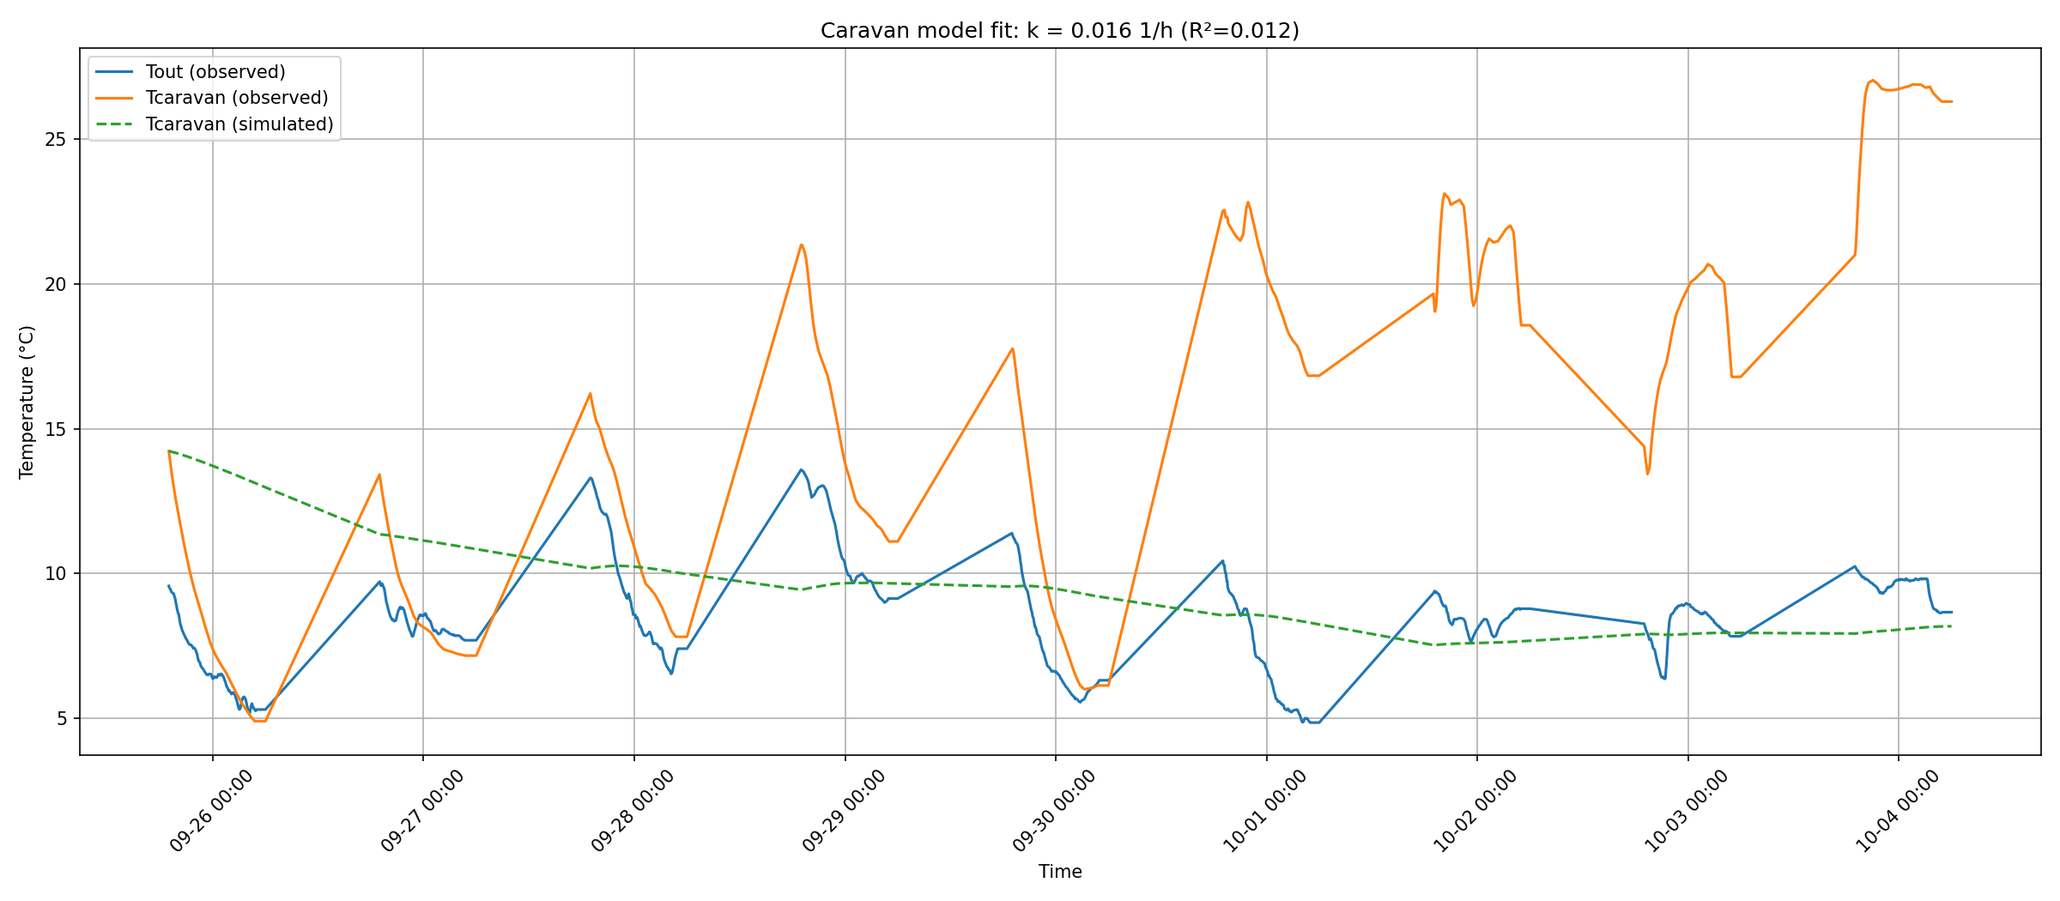
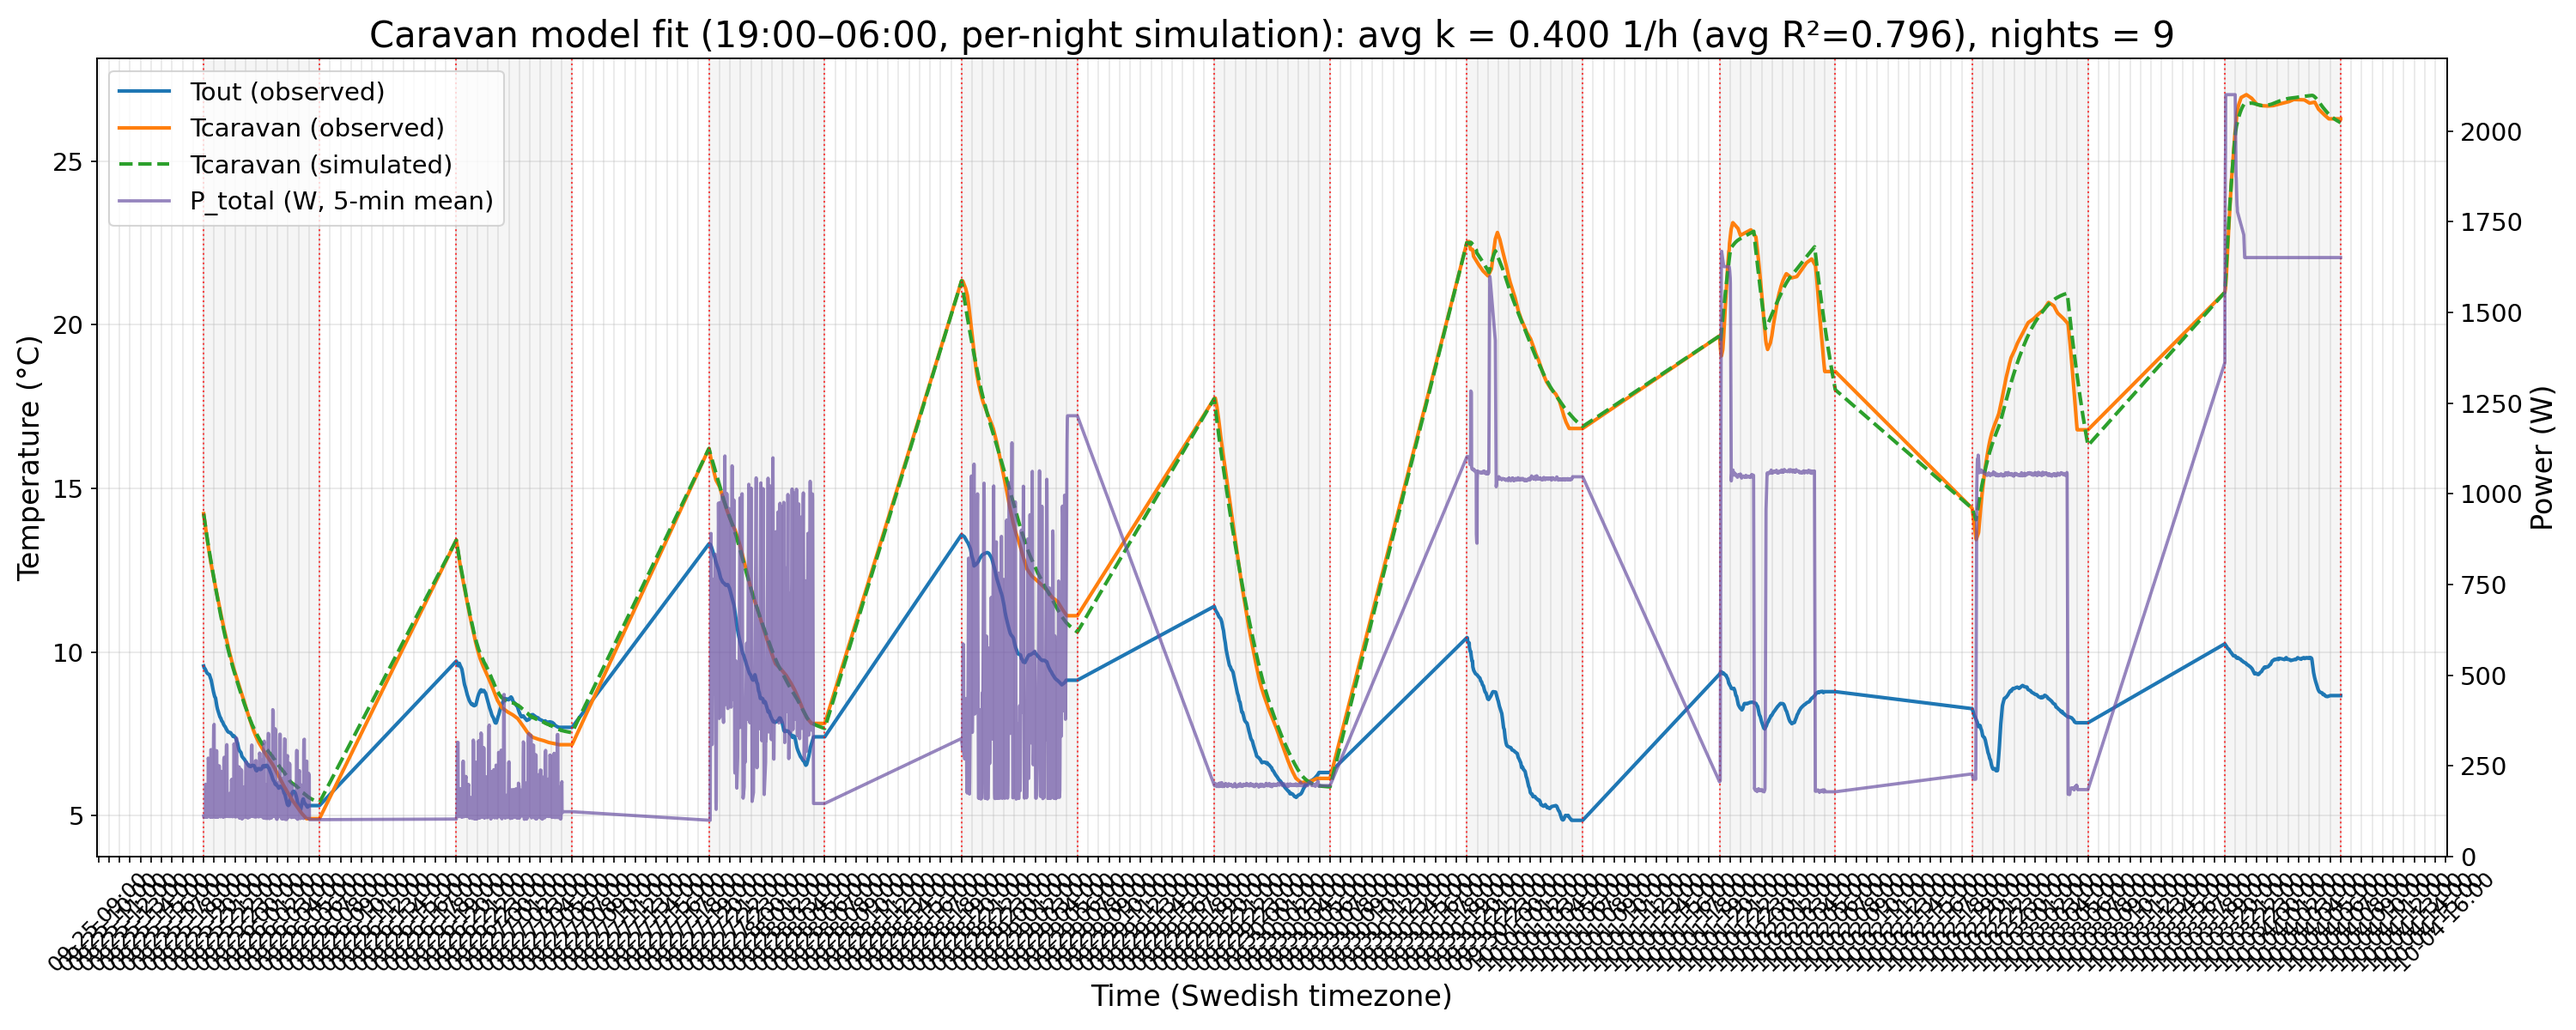
caravan fit

diff --git a/caravan/estimate_caravan_heat_exchange.py b/caravan/estimate_caravan_heat_exchange.py
@@ -17,13 +17,14 @@ import matplotlib.pyplot as plt
 import matplotlib.dates as mdates
 
 
-def fit_k(df, tout_col, tcaravan_col):
+def fit_k_alpha(df, tout_col: str, tcaravan_col: str, ptotal_col: str):
     """
-    Estimate k in the model dTcaravan/dt = k * (Tout - Tcaravan)
+    Estimate parameters in the model:
+        dT/dt = k * (Tout - Tcaravan) + alpha * P_total
 
-    Contract:
-    - Input df indexed by datetime, minutely or similar, with columns tout_col and tcaravan_col (floats)
-    - Output dict with k (1/s), k_per_hour (1/h), r2, stderr, n_samples
+    Where P_total = heater_power + human_heat (assumed constant 100W already added).
+
+    Returns dict with k, alpha, capacity (=1/alpha), statistics, and samples used.
     """
     df = df.copy()
 
@@ -35,45 +36,62 @@ def fit_k(df, tout_col, tcaravan_col):
     dT = np.asarray(df[tcaravan_col].astype(float).diff().values, dtype=float)
     dT_dt = dT / dt_seconds
 
-    # Driving temperature difference as numpy
-    x = np.asarray((df[tout_col].astype(float) - df[tcaravan_col].astype(float)).values, dtype=float)
+    # Predictors
+    x1 = np.asarray((df[tout_col].astype(float) - df[tcaravan_col].astype(float)).values, dtype=float)
+    x2 = np.asarray(df[ptotal_col].astype(float).values, dtype=float)
 
     # Build DataFrame aligned to original index for filtering and drop NaNs from edges
-    data = pd.DataFrame({'x': x, 'y': dT_dt, 'dt': dt_seconds}, index=df.index).dropna()
+    data = pd.DataFrame({'x1': x1, 'x2': x2, 'y': dT_dt, 'dt': dt_seconds}, index=df.index).dropna()
 
     # Keep only reasonably uniform sampling (30s..120s) to avoid edge artifacts
+    # This is critical when combining multiple time periods with gaps
+    data_before_filter = len(data)
     data = data[(data['dt'] >= 30) & (data['dt'] <= 120)]
+    data_after_filter = len(data)
+    
+    print(f"Filtering: kept {data_after_filter}/{data_before_filter} samples ({data_before_filter - data_after_filter} boundary samples excluded)")
 
     if len(data) < 10:
         raise ValueError(f"Not enough samples after cleaning to fit k (have {len(data)})")
 
-    x_vals = np.asarray(data['x'].values, dtype=float)
+    X = np.column_stack([
+        np.asarray(data['x1'].values, dtype=float),
+        np.asarray(data['x2'].values, dtype=float)
+    ])
     y_vals = np.asarray(data['y'].values, dtype=float)
 
-    # Fit through origin: minimize ||y - k x||^2 -> k = (x·y)/(x·x)
-    denom = np.dot(x_vals, x_vals)
-    if denom == 0:
-        raise ValueError("Zero variance in (Tout - Tcaravan); cannot estimate k")
-    k = float(np.dot(x_vals, y_vals) / denom)
+    # Solve least squares without intercept
+    coeffs, residuals_arr, rank, s = np.linalg.lstsq(X, y_vals, rcond=None)
+    k = float(coeffs[0])
+    alpha = float(coeffs[1])
 
     # Residuals and statistics
-    y_hat = k * x_vals
+    y_hat = X @ coeffs
     residuals = y_vals - y_hat
     n = len(y_vals)
-    # Degrees of freedom: 1 parameter (slope through origin)
-    dof = max(n - 1, 1)
+    p = X.shape[1]
+    # Degrees of freedom: p parameters (k, alpha), no intercept
+    dof = max(n - p, 1)
     sse = float(np.dot(residuals, residuals))
     sigma2 = sse / dof
-    stderr = float(np.sqrt(sigma2 / denom))
-    # R^2 for no-intercept model: 1 - SSE / sum(y^2)
+    # Standard errors for coefficients
+    XtX_inv = np.linalg.pinv(X.T @ X)
+    se = np.sqrt(np.diag(sigma2 * XtX_inv))
+    stderr_k = float(se[0])
+    stderr_alpha = float(se[1])
+
+    # R^2 for no-intercept model: 1 - SSE / sum(y^2) (no intercept definition)
     tss0 = float(np.dot(y_vals, y_vals))
     r2 = float(1.0 - sse / tss0) if tss0 > 0 else float('nan')
 
     return {
         'k_per_second': k,
         'k_per_hour': k * 3600.0,
-        'stderr_per_second': stderr,
-        'stderr_per_hour': stderr * 3600.0,
+        'alpha_per_watt': alpha,  # (deg C / (W*s))
+        'capacity_J_per_degC': (1.0 / alpha) if alpha != 0 else float('inf'),
+        'stderr_k_per_second': stderr_k,
+        'stderr_k_per_hour': stderr_k * 3600.0,
+        'stderr_alpha_per_watt': stderr_alpha,
         'r2_no_intercept': r2,
         'n_samples': n,
     }
@@ -118,47 +136,92 @@ def main():
     # Sensors
     tout = 'sensor.climate_outdoor_temperature'
     tcaravan = 'sensor.climate_b_kontor_temperature'
+    pheater = 'sensor.plug_office_power'
 
     # Generate multiple time periods from 2025-09-25 to 2025-10-03
     # Each period: 19:00 Swedish time to 06:00 next day Swedish time
     periods = generate_time_periods('2025-09-25', '2025-10-03')
     
     print(f"Loading data for {len(periods)} periods...")
-    
-    # Load and combine data from all periods
-    all_dataframes = []
+
+    # Fit and simulate per-night; also build combined df for plotting
+    night_results: List[Dict[str, Any]] = []
+    per_night_frames: List[pd.DataFrame] = []
+
     for i, (start_utc, end_utc) in enumerate(periods):
         print(f"  Period {i+1}: {start_utc.isoformat()} to {end_utc.isoformat()} (UTC)")
         start_ts = start_utc.timestamp()
         end_ts = end_utc.timestamp()
-        
-        # Load minutely-interpolated data for this period
-        df_period = load_data([tout, tcaravan], from_time=start_ts, to_time=end_ts)
-        
-        if not df_period.empty:
-            all_dataframes.append(df_period)
-        else:
+
+        # Load data for this night
+        df_period = load_data([tout, tcaravan, pheater], from_time=start_ts, to_time=end_ts)
+        if df_period.empty:
             print(f"    Warning: No data found for period {i+1}")
-    
-    if not all_dataframes:
+            continue
+
+        # Compute total power (cap heater) + 100W humans
+        heater_w = df_period[pheater].astype(float).fillna(0.0).clip(lower=0.0, upper=2000.0)
+        df_period['P_total'] = heater_w + 100.0
+        try:
+            df_period['P_total_smooth'] = df_period['P_total'].rolling('5min', min_periods=1).mean()
+        except Exception:
+            df_period['P_total_smooth'] = df_period['P_total'].rolling(5, min_periods=1).mean()
+
+        # Fit per-night
+        res = fit_k_alpha(df_period, tout_col=tout, tcaravan_col=tcaravan, ptotal_col='P_total')
+
+        # Simulate per-night with reset initial condition
+        idx = df_period.index
+        dt_sec = idx.to_series().diff().dt.total_seconds().fillna(0.0).astype(float).to_numpy()
+        tout_vals = df_period[tout].astype(float).to_numpy()
+        t_obs_vals = df_period[tcaravan].astype(float).to_numpy()
+        p_total_vals = df_period['P_total'].astype(float).to_numpy()
+        t_sim = np.empty_like(t_obs_vals)
+        t_sim[0] = t_obs_vals[0]
+        k_val = res['k_per_second']
+        alpha_val = res['alpha_per_watt']
+        for j in range(1, len(t_sim)):
+            t_sim[j] = (
+                t_sim[j-1]
+                + (k_val * (tout_vals[j-1] - t_sim[j-1]) + alpha_val * p_total_vals[j-1]) * dt_sec[j]
+            )
+        df_period['T_sim'] = t_sim
+
+        # Record results
+        night_results.append({
+            'night_index': i + 1,
+            'start_utc': start_utc.isoformat(),
+            'end_utc': end_utc.isoformat(),
+            'start_swedish': start_utc.astimezone(ZoneInfo('Europe/Stockholm')).isoformat(),
+            'end_swedish': end_utc.astimezone(ZoneInfo('Europe/Stockholm')).isoformat(),
+            **res,
+        })
+
+        per_night_frames.append(df_period)
+
+    if not per_night_frames:
         raise ValueError("No data found for any of the specified periods")
-    
-    # Combine all periods into one DataFrame
-    df = pd.concat(all_dataframes, axis=0).sort_index()
+
+    # Combine all nights for plotting/inspection
+    df = pd.concat(per_night_frames, axis=0).sort_index()
     print(f"Combined data: {len(df)} samples from {df.index[0]} to {df.index[-1]}")
 
-    # Fit k on all combined data
-    results = fit_k(df, tout_col=tout, tcaravan_col=tcaravan)
+    # Verify slicing by checking hours
+    hours = [t.hour for t in df.index]
+    print(f"Hours present in data: {sorted(set(hours))}")
+    print(f"Expected hours: 19, 20, 21, 22, 23, 0, 1, 2, 3, 4, 5, 6")
 
-    # Print results
-    print('=== Caravan heat exchange estimate ===')
-    print(f"Time periods: {len(periods)} periods from 2025-09-25 to 2025-10-03")
-    print(f"Each period: 19:00 to 06:00 next day (Swedish time)")
-    print(f"Combined data: {len(df)} samples from {df.index[0]} to {df.index[-1]}")
-    print(f"Samples used for fitting: {results['n_samples']}")
-    print(f"k = {results['k_per_second']:.6e} 1/s  (± {results['stderr_per_second']:.2e})")
-    print(f"k = {results['k_per_hour']:.6e} 1/h  (± {results['stderr_per_hour']:.2e})")
-    print(f"R^2 (no intercept): {results['r2_no_intercept']:.4f}")
+    # Print per-night summary
+    print('=== Caravan heat exchange estimate (per night) ===')
+    for nr in night_results:
+        print(
+            f"Night {nr['night_index']:2d} | k: {nr['k_per_hour']:.3f} 1/h (± {nr['stderr_k_per_hour']:.3f})  "
+            f"alpha: {nr['alpha_per_watt']:.3e} °C/(W*s)  R²: {nr['r2_no_intercept']:.3f}  samples: {nr['n_samples']}"
+        )
+    # Simple averages (optional)
+    k_hours = [nr['k_per_hour'] for nr in night_results]
+    alphas = [nr['alpha_per_watt'] for nr in night_results]
+    print(f"Averages -> k: {np.mean(k_hours):.3f} 1/h, alpha: {np.mean(alphas):.3e} °C/(W*s)")
 
     # Save to output JSON for reproducibility
     period_info = [
@@ -175,8 +238,14 @@ def main():
         'date_range': '2025-09-25 to 2025-10-03',
         'period_description': '19:00 to 06:00 next day (Swedish time) for each date',
         'periods': period_info,
-        'sensors': {'Tout': tout, 'Tcaravan': tcaravan},
-        'results': results,
+        'sensors': {'Tout': tout, 'Tcaravan': tcaravan, 'Pheater': pheater},
+        'night_results': night_results,
+        'summary': {
+            'avg_k_per_hour': float(np.mean([nr['k_per_hour'] for nr in night_results])),
+            'avg_alpha_per_watt': float(np.mean([nr['alpha_per_watt'] for nr in night_results])),
+            'n_nights': len(night_results),
+            'total_samples': int(np.sum([nr['n_samples'] for nr in night_results]))
+        }
     }
     output_dir = Path(__file__).parent / 'output'
     output_dir.mkdir(exist_ok=True)
@@ -185,31 +254,64 @@ def main():
         json.dump(out, f, indent=2)
     print(f"Saved results to {out_path}")
 
-    # Simulate Tcaravan using fitted k and Tout, Euler integration on original grid
-    k = results['k_per_second']
+    # For plotting we already have per-night simulation in df['T_sim']
     idx = df.index
-    dt_sec = idx.to_series().diff().dt.total_seconds().fillna(0.0).astype(float).to_numpy()
     tout_vals = df[tout].astype(float).to_numpy()
     t_obs_vals = df[tcaravan].astype(float).to_numpy()
-    t_sim = np.empty_like(t_obs_vals)
-    t_sim[0] = t_obs_vals[0]
-    for i in range(1, len(t_sim)):
-        t_sim[i] = t_sim[i-1] + k * (tout_vals[i-1] - t_sim[i-1]) * dt_sec[i]
+    p_total_vals_smooth = df['P_total_smooth'].astype(float).to_numpy()
+    t_sim = df['T_sim'].astype(float).to_numpy()
 
     # Plot Tout, Tcaravan (observed), and Tcaravan (simulated)
-    fig, ax = plt.subplots(1, 1, figsize=(16, 7))
+    fig, ax = plt.subplots(1, 1, figsize=(20, 8))
     ax.plot(idx, tout_vals, label='Tout (observed)', color='#1f77b4', linewidth=2)
     ax.plot(idx, t_obs_vals, label='Tcaravan (observed)', color='#ff7f0e', linewidth=2)
     ax.plot(idx, t_sim, label='Tcaravan (simulated)', color='#2ca02c', linestyle='--', linewidth=2)
-    ax.set_title(f"Caravan model fit: k = {results['k_per_hour']:.3f} 1/h (R²={results['r2_no_intercept']:.3f})", fontsize=20)
-    ax.set_xlabel('Time', fontsize=16)
+
+    # Secondary axis for power
+    ax2 = ax.twinx()
+    ax2.plot(idx, p_total_vals_smooth, label='P_total (W, 5-min mean)', color='#6a51a3', linewidth=1.8, alpha=0.7)
+    ax2.set_ylabel('Power (W)', fontsize=16)
+    ax2.tick_params(axis='y', labelsize=14)
+    
+    # Add vertical lines to show period boundaries (19:00 and 06:00)
+    for start_utc, end_utc in periods:
+        # Convert to the same timezone as the data for plotting
+        start_local = start_utc.astimezone(ZoneInfo('Europe/Stockholm'))
+        end_local = end_utc.astimezone(ZoneInfo('Europe/Stockholm'))
+        # Shade night period
+        if getattr(idx, 'tz', None) is None:
+            s_span = start_local.replace(tzinfo=None)
+            e_span = end_local.replace(tzinfo=None)
+        else:
+            s_span = start_local
+            e_span = end_local
+        ax.axvspan(s_span, e_span, color='gray', alpha=0.08, zorder=0)
+        # Use s_span/e_span for lines as well to ensure matching tz-awareness with the x data
+        ax.axvline(s_span, color='red', linestyle=':', alpha=0.7, linewidth=1)
+        ax.axvline(e_span, color='red', linestyle=':', alpha=0.7, linewidth=1)
+
+    # Title with aggregated metrics (avoid undefined 'results')
+    avg_k_h = float(np.mean([nr['k_per_hour'] for nr in night_results]))
+    avg_r2 = float(np.mean([nr['r2_no_intercept'] for nr in night_results]))
+    ax.set_title(
+        f"Caravan model fit (19:00–06:00, per-night simulation): avg k = {avg_k_h:.3f} 1/h (avg R²={avg_r2:.3f}), nights = {len(night_results)}",
+        fontsize=20,
+    )
+    ax.set_xlabel('Time (Swedish timezone)', fontsize=16)
     ax.set_ylabel('Temperature (°C)', fontsize=16)
+    
+    # Set x-axis to show hourly ticks
+    ax.xaxis.set_major_locator(mdates.HourLocator(interval=1))
     ax.xaxis.set_major_formatter(mdates.DateFormatter('%m-%d %H:%M'))
-    ax.xaxis.set_major_locator(mdates.AutoDateLocator())
-    ax.tick_params(axis='x', rotation=45, labelsize=14)
+    ax.xaxis.set_minor_locator(mdates.HourLocator(interval=1))
+    
+    ax.tick_params(axis='x', rotation=45, labelsize=12, which='major')
     ax.tick_params(axis='y', labelsize=14)
-    ax.grid(True)
-    ax.legend(loc='best', fontsize=14)
+    ax.grid(True, alpha=0.3)
+    # Merge legends from both axes
+    lines1, labels1 = ax.get_legend_handles_labels()
+    lines2, labels2 = ax2.get_legend_handles_labels()
+    ax.legend(lines1 + lines2, labels1 + labels2, loc='best', fontsize=14)
     plt.tight_layout()
 
     png_path = output_dir / 'caravan_k_multi_period_2025-09-25_to_2025-10-03.png'
